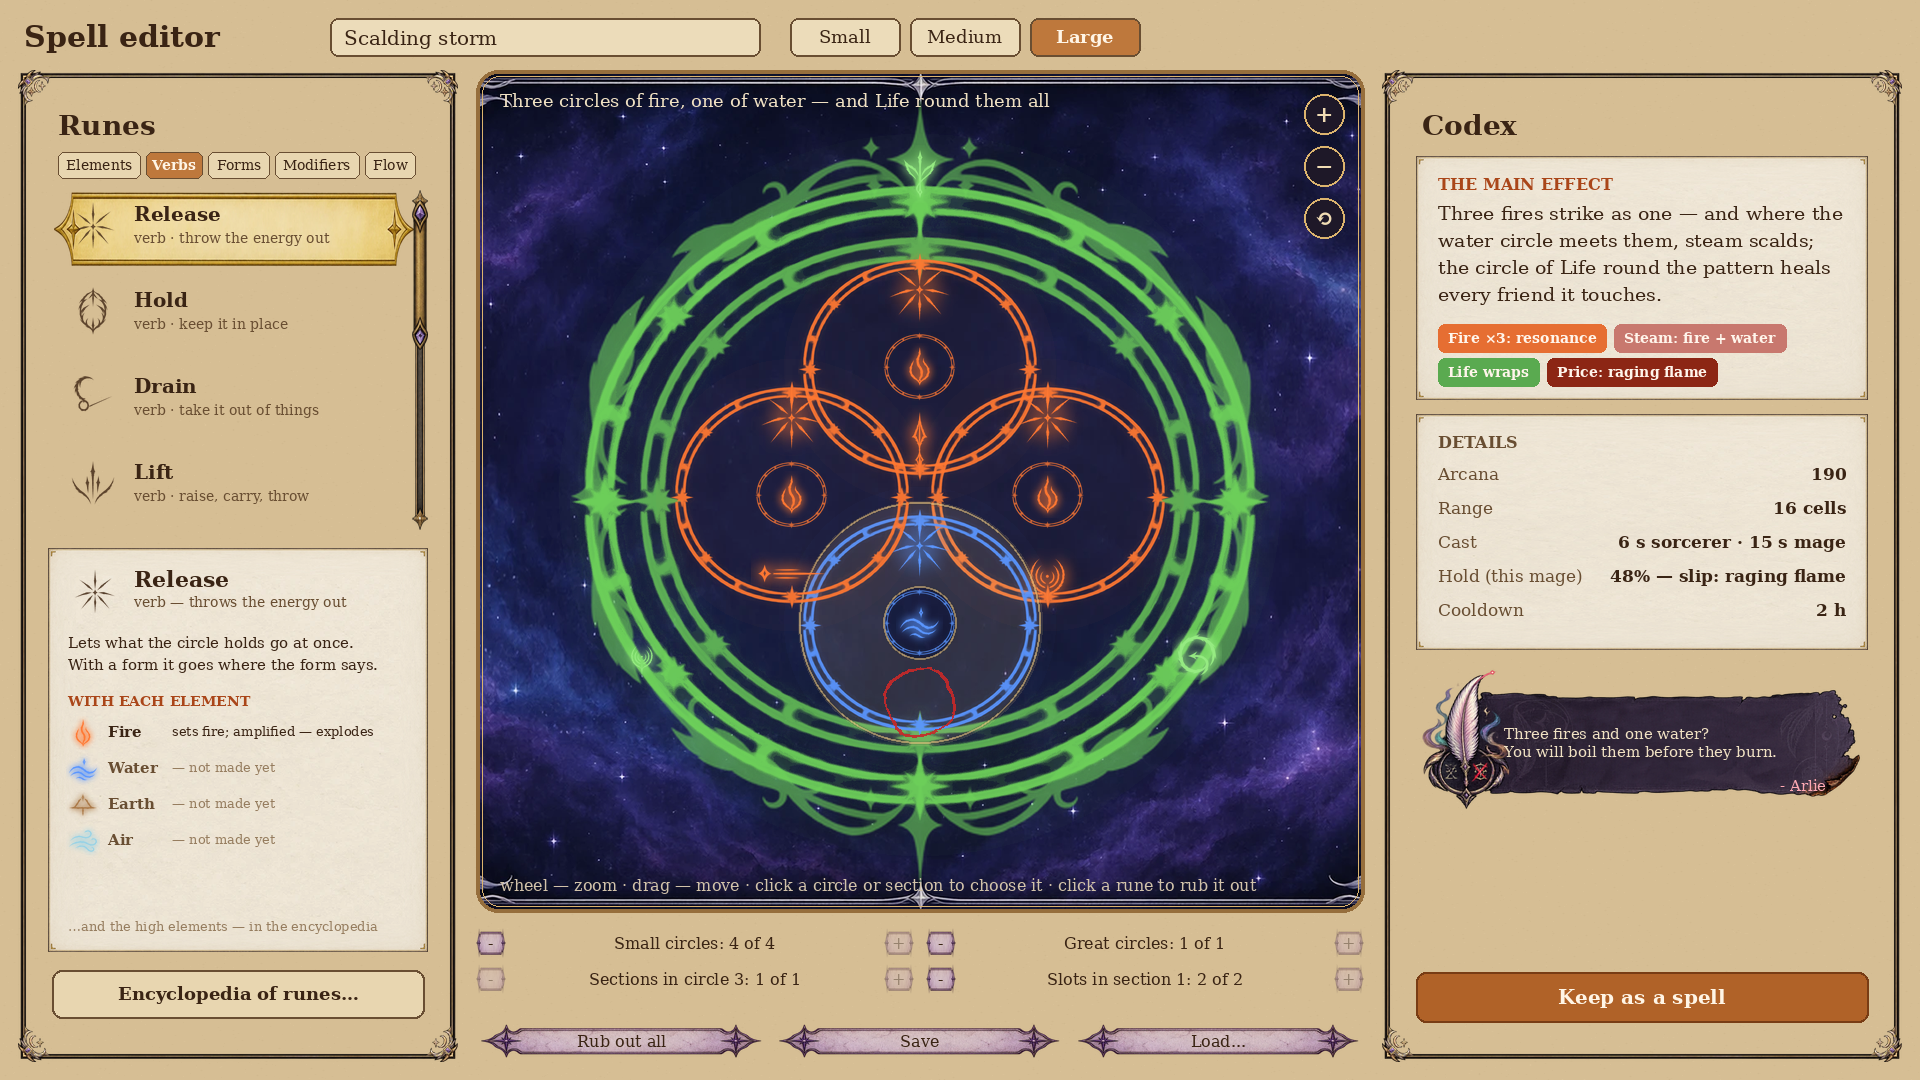
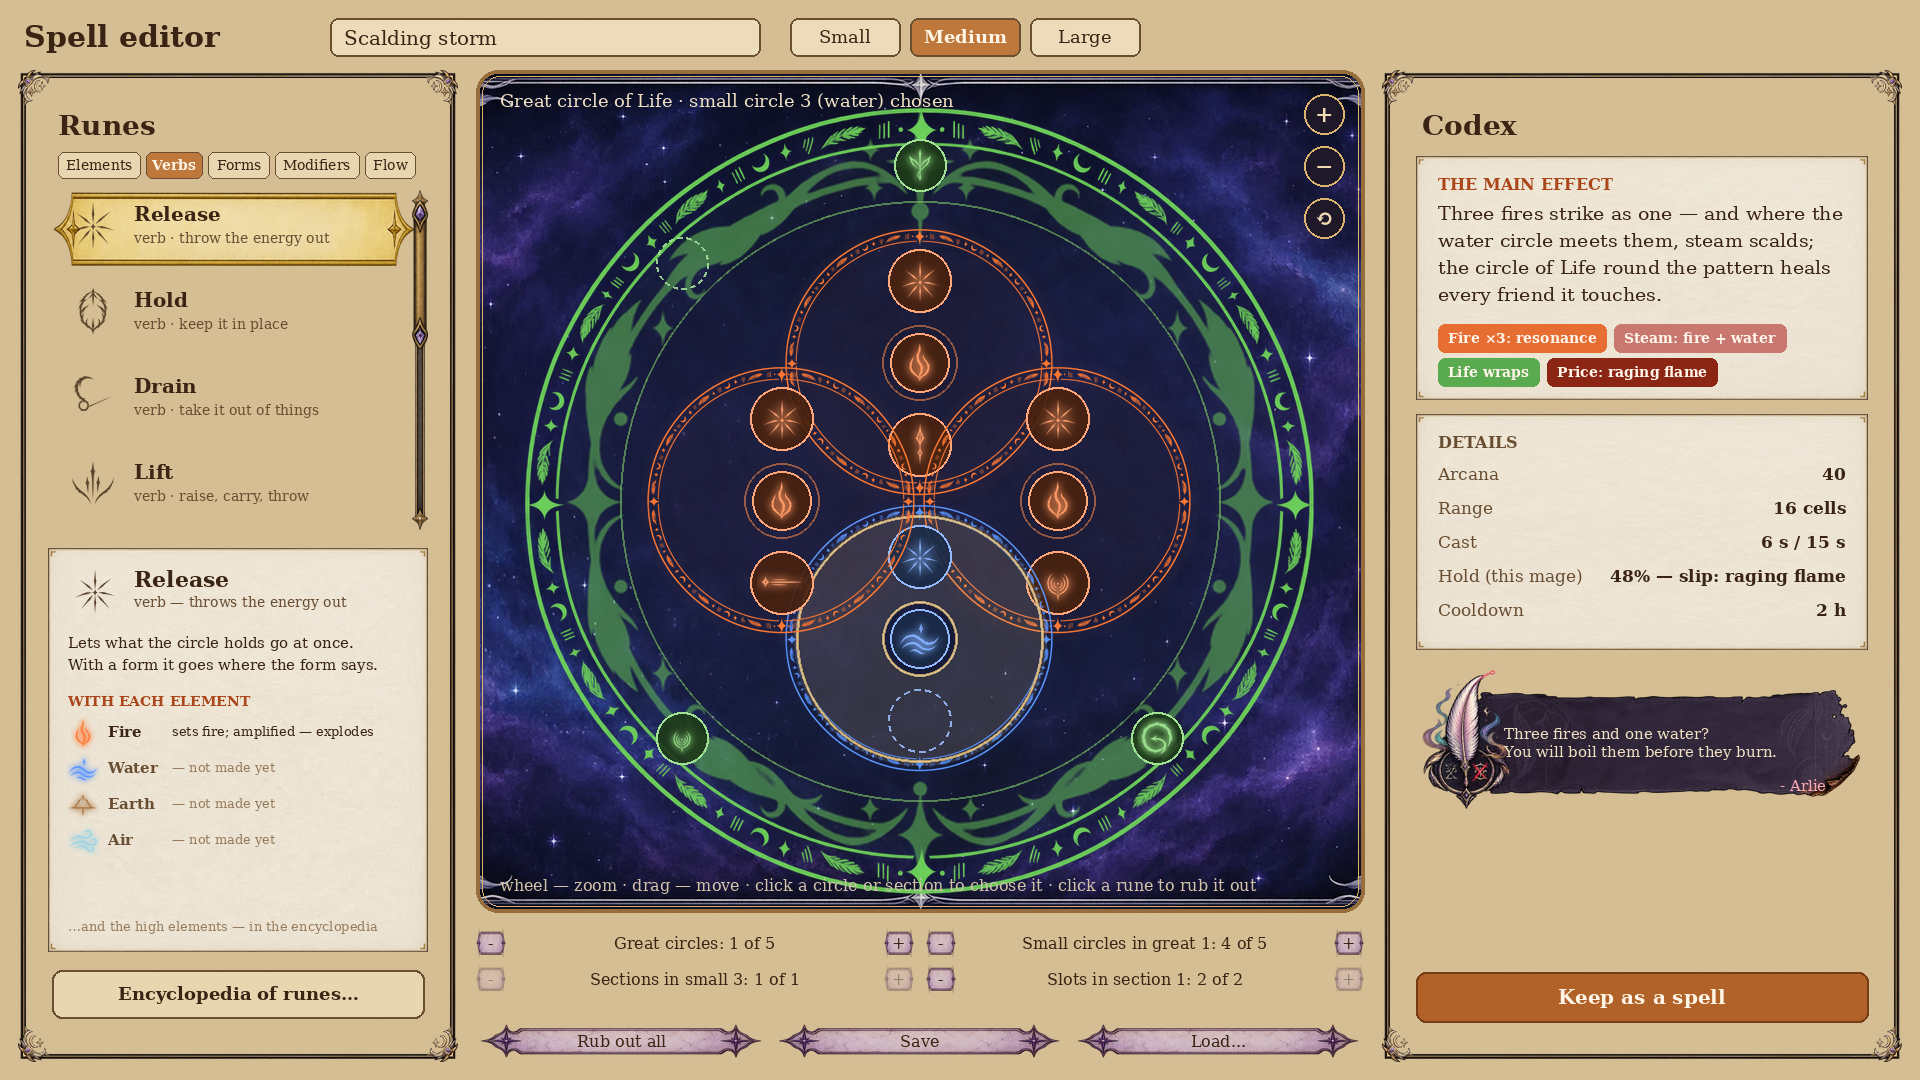
Magic: editor preview v9 (RimRing, great circles contain small ones, rune plates, 5x5 zoomed out); flow on mages
Claude-Session: https://claude.ai/code/session_01YCWNLtj9zFsogxZeNiDKcG

diff --git a/Framework/Magic/Магия-план.md b/Framework/Magic/Магия-план.md
@@ -1345,3 +1345,14 @@
   - **Руны в секциях — как в ритуалистике:** круг выбирается кликом, секции — кольца от центра, руны по местам секции, пустые места — красная тушь Арлии; руна стихии — в центре круга.
   - **Круги одной стихии можно повторять** (3 Огня + 1 Вода и т.п.). **Сочетание создаётся самим набором кругов**, руны на перекрытиях **не рисуются** — так не нарушается логика «руна в секции».
 - **v8 (автор):** основа круга — **круг ритуалистики** (SectionRing), перекрашенный в цвет стихии, — так руны в секциях читаются ясно; **кольцо линариек — рамкой снаружи**. Большой круг Жизни — тоже кольцо ритуалистики (полоса) с рамкой линариек.
+
+## 79. Большие и малые круги, читаемость рун, поток для магов (автор)
+
+- **Обод — RimRing** (текстура автора, `Textures/UI/Ritualistics/Circle/RimRing.png`), перекрашенный в цвет круга; кольцо линариек — рамкой снаружи. Порванный SectionRing не используется.
+- **Большой круг — контейнер:** создание большого круга сразу даёт в нём малые; переключение между большими кругами — добавление малых в разных. **Максимум: 5 больших × 5 малых = 25 кругов** — для этого зум и отдаление. Чем колоссальнее заклинание, тем оно сильнее.
+- Без большого круга — один малый.
+- **Руны не наезжают на линии круга** и стоят на **плашках в палитре круга** (тёмный диск со светлой каймой); пустое место — **пунктир в цвете круга** вместо красной туши Арлии (на цветных кругах тушь не читается).
+- Нижняя панель: «Great circles», «Small circles in great N», «Sections in small N», «Slots in section N».
+- **Поток на карте влияет и на магов:** под потоком маг сильнее, но податливее Величию. В расчёте потока **маг/чародей ≈ три пешки** (психочувствительность ×3). Это может оказаться плохой идеей → **настройка в опциях**.
+- **Магия — отдельная вкладка в настройках мода** (рядом с «Avir and the mod» и «Singers»): включение магии, множитель мага для потока, прочее.
+- Превью: `Превью-редактор-заклинаний.png` (один малый), `…-сплетение.png` (большой Жизни с 4 малыми: 3 Огня + 1 Вода), `…-огромное.png` (5 × 5, отдалено).
